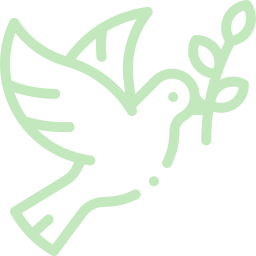
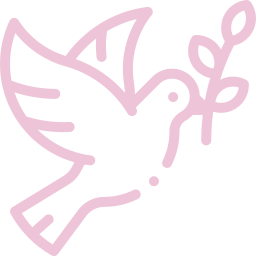
feat: change color theme

Changed region(s): [[0.0, 0.0, 1.0, 1.0], [0.5625, 0.6875, 0.625, 0.75]]

diff --git a/lib/features/app_logo/presentation/app_logo.dart b/lib/features/app_logo/presentation/app_logo.dart
@@ -1,5 +1,6 @@
 import 'package:daily_mind/theme/theme.dart';
 import 'package:flutter/material.dart';
+import 'package:get/utils.dart';
 
 class AppLogo extends StatelessWidget {
   const AppLogo({super.key});
@@ -10,6 +11,7 @@ class AppLogo extends StatelessWidget {
       padding: EdgeInsets.all(spacing(2)),
       child: Image.asset(
         'assets/images/dove.png',
+        color: context.theme.primaryColor,
         width: 48,
         height: 48,
       ),

diff --git a/lib/theme/theme.dart b/lib/theme/theme.dart
@@ -4,7 +4,7 @@ import 'package:flutter/material.dart';
 const background = Color(0xFF272727);
 
 final darkTheme = FlexThemeData.dark(
-  scheme: FlexScheme.tealM3,
+  scheme: FlexScheme.sakura,
   useMaterial3: true,
 );
 
